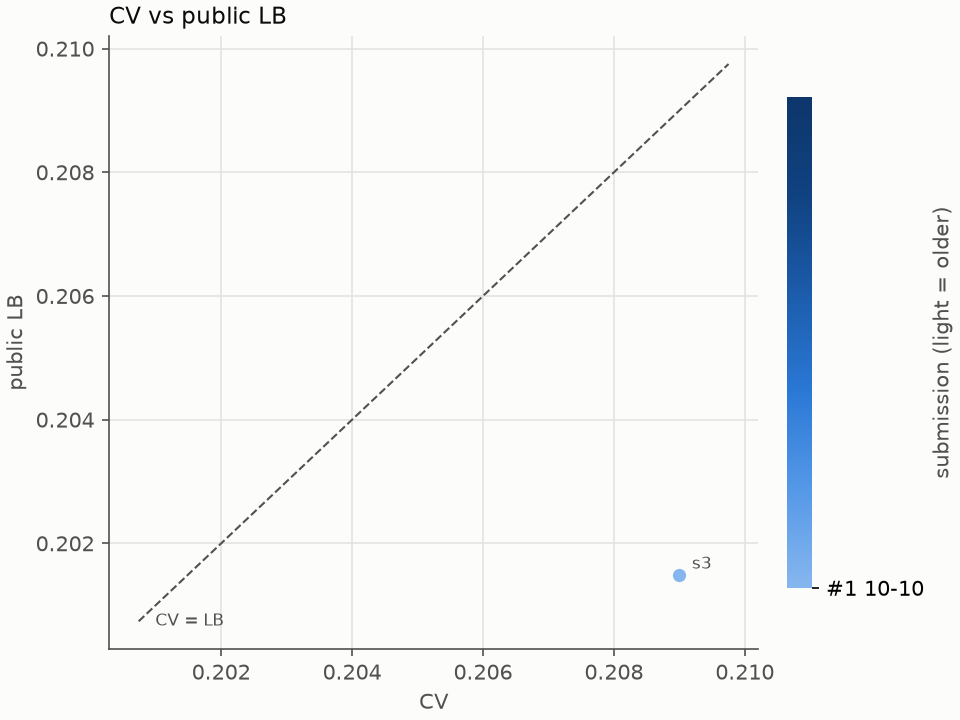
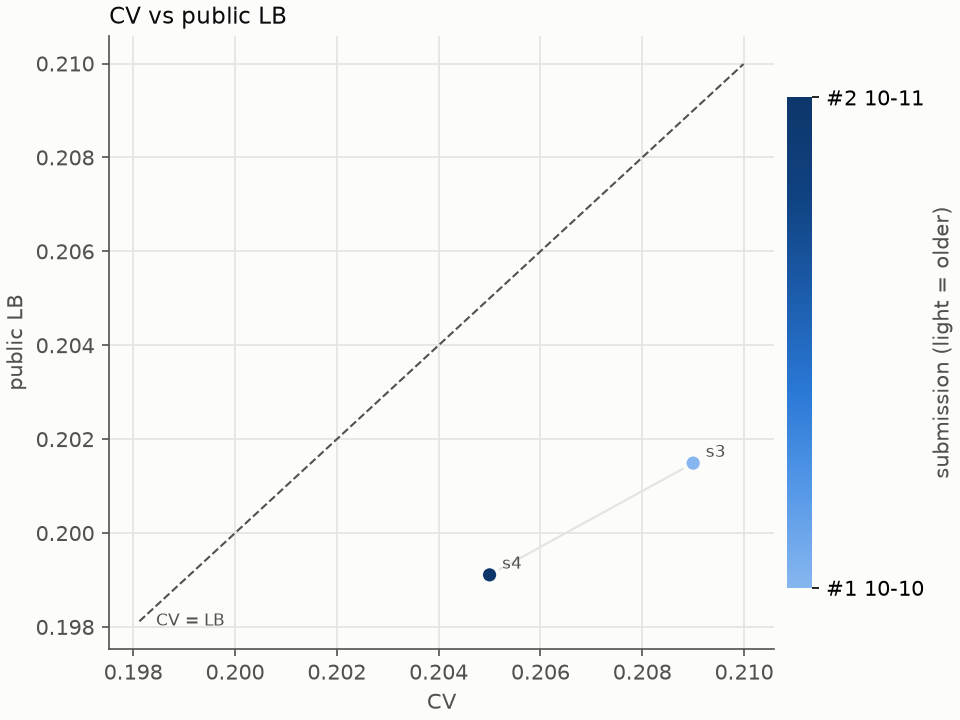
docs: record the second submission (S4, public LB 0.19911)
The submit tool's LB polling failed on a transient DNS error after the upload
went through, so the submissions row was added by hand from the Kaggle list.

diff --git a/docs/submissions.md b/docs/submissions.md
@@ -3,3 +3,4 @@
 | date | exp | run | cv | public_lb | message | kernel_version | file |
 |---|---|---|---|---|---|---|---|
 | 2026-10-10 | s3_features | plus_notation | 0.2090 | 0.20149 | S3 features: trade period as a number and parsed notation |  | submission.csv |
+| 2026-10-11 | s4_trend | hedonic_linear | 0.2050 | 0.19911 | S4 hedonic price index: deflated target, index extrapolated linearly from the last 8 quarters |  | submission.csv |
